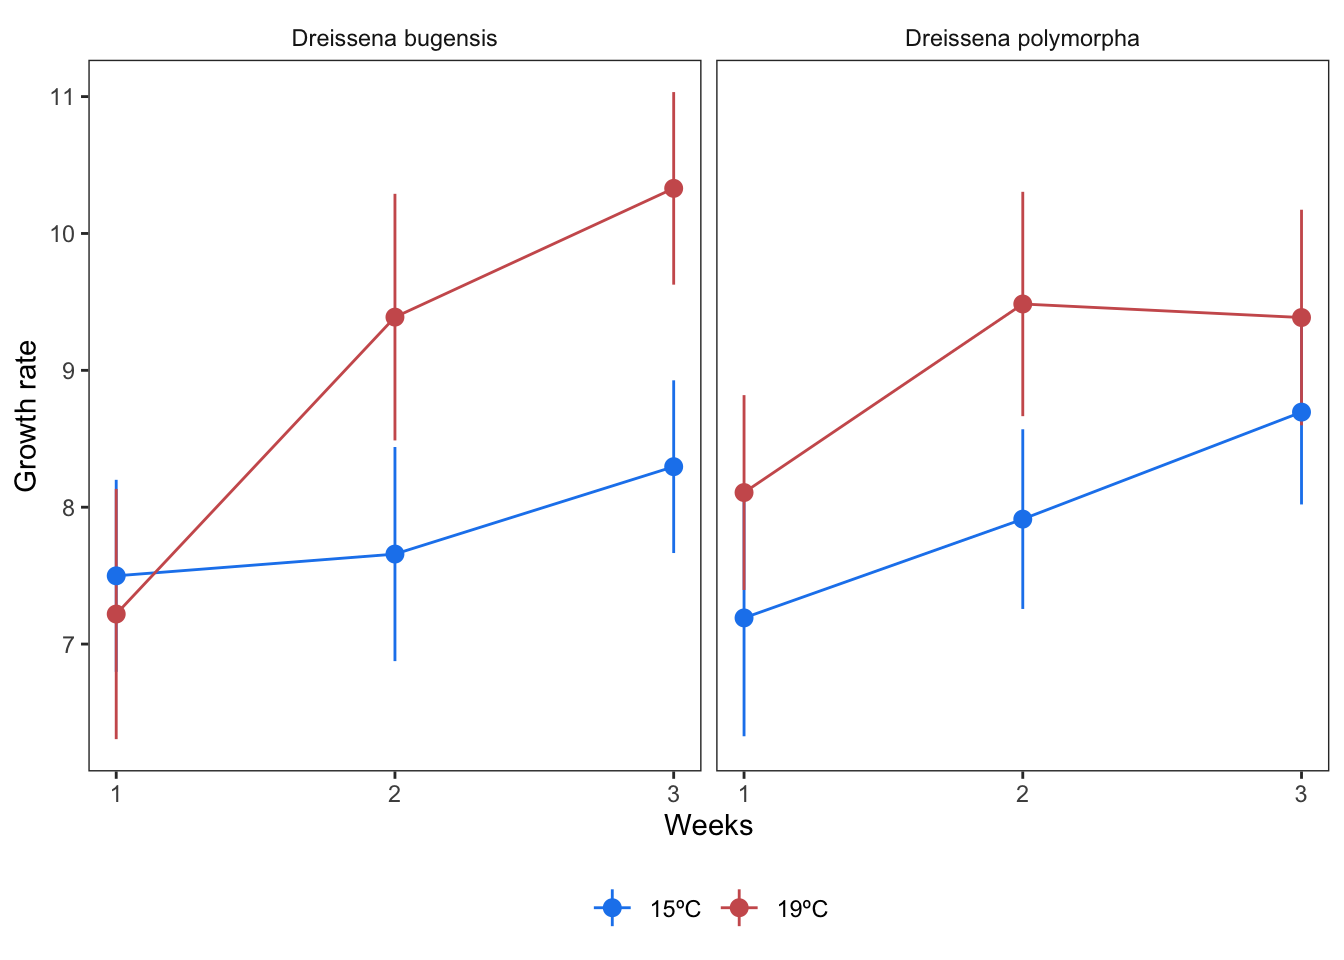
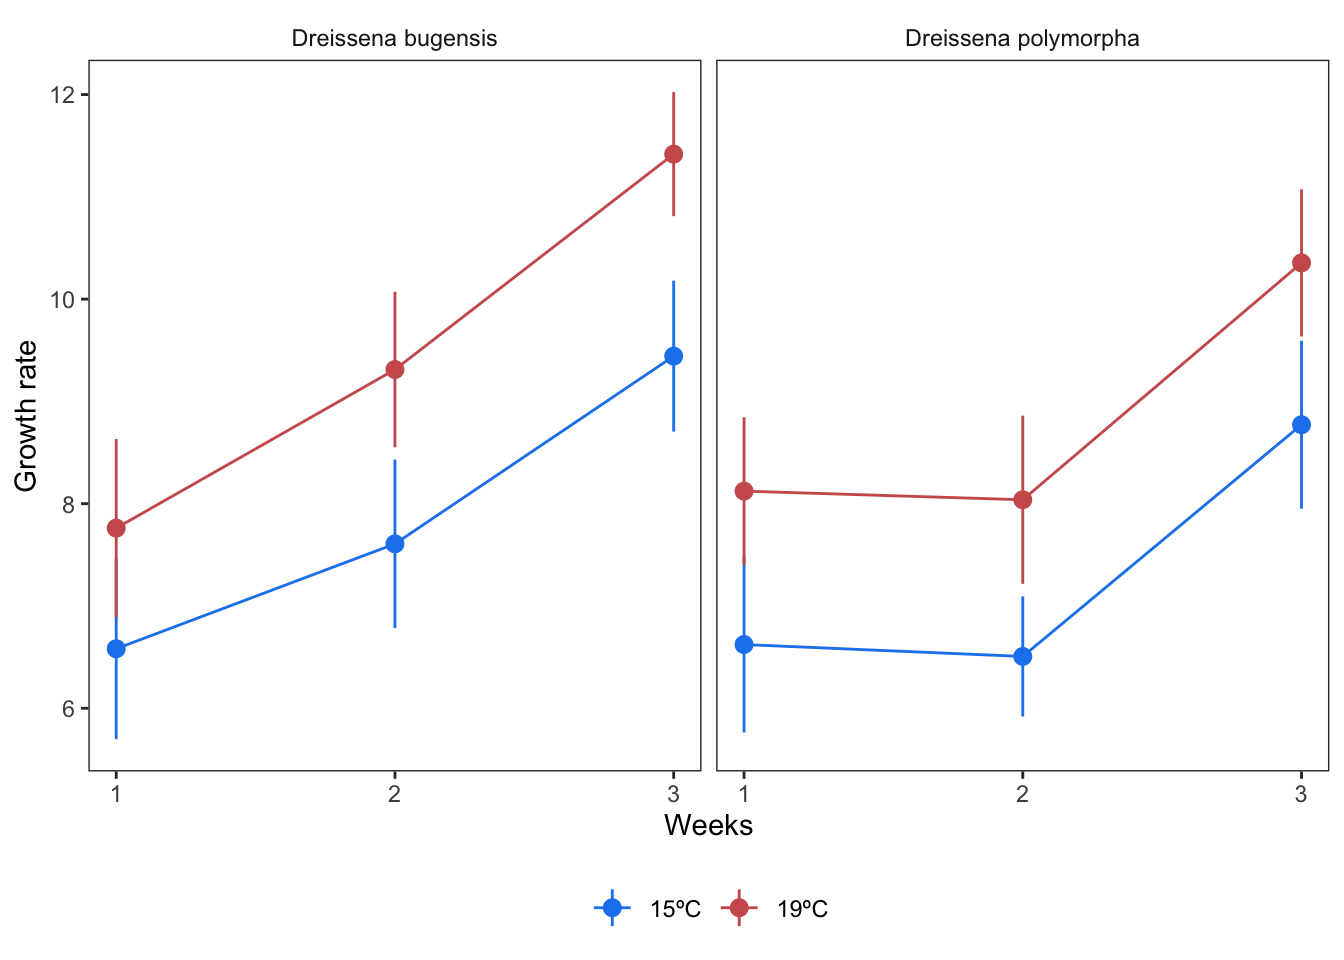
pushed

diff --git a/docs/3.1-universal-challenges.html b/docs/3.1-universal-challenges.html
@@ -4,7 +4,7 @@
 <meta charset="utf-8">
 <meta name="generator" content="quarto-1.9.38">
 <meta name="viewport" content="width=device-width, initial-scale=1.0, user-scalable=yes">
-<meta name="dcterms.date" content="2026-08-10">
+<meta name="dcterms.date" content="2026-08-11">
 <title>Universal extraction challenges – A user’s guide to effect sizes</title>
 <style>
 /* Default styles provided by pandoc.
@@ -334,6 +334,7 @@ window.Quarto = {
   </ul>
 </li>
   <li><a href="#sec-database-design" id="toc-sec-database-design" class="nav-link" data-scroll-target="#sec-database-design">Database design</a></li>
+  <li><a href="#sec-other-resources" id="toc-sec-other-resources" class="nav-link" data-scroll-target="#sec-other-resources">Other resources</a></li>
   </ul></nav>
     </div>
 <!-- main -->
@@ -349,7 +350,7 @@ window.Quarto = {
     <div>
     <div class="quarto-title-meta-heading">Published</div>
     <div class="quarto-title-meta-contents">
-      <p class="date">August 10, 2026</p>
+      <p class="date">August 11, 2026</p>
     </div>
   </div>
   
@@ -478,11 +479,11 @@ window.Quarto = {
 <td style="text-align: right;">1</td>
 <td style="text-align: left;">15ºC</td>
 <td style="text-align: left;">19ºC</td>
-<td style="text-align: right;">7.498645</td>
-<td style="text-align: right;">0.7014435</td>
+<td style="text-align: right;">6.582016</td>
+<td style="text-align: right;">0.8838229</td>
 <td style="text-align: right;">15</td>
-<td style="text-align: right;">7.219469</td>
-<td style="text-align: right;">0.9140485</td>
+<td style="text-align: right;">7.761124</td>
+<td style="text-align: right;">0.8709474</td>
 <td style="text-align: right;">15</td>
 </tr>
 <tr class="even">
@@ -493,11 +494,11 @@ window.Quarto = {
 <td style="text-align: right;">2</td>
 <td style="text-align: left;">15ºC</td>
 <td style="text-align: left;">19ºC</td>
-<td style="text-align: right;">7.657649</td>
-<td style="text-align: right;">0.7821465</td>
+<td style="text-align: right;">7.607355</td>
+<td style="text-align: right;">0.8241189</td>
 <td style="text-align: right;">15</td>
-<td style="text-align: right;">9.388838</td>
-<td style="text-align: right;">0.9008522</td>
+<td style="text-align: right;">9.311742</td>
+<td style="text-align: right;">0.7600977</td>
 <td style="text-align: right;">15</td>
 </tr>
 <tr class="odd">
@@ -508,11 +509,11 @@ window.Quarto = {
 <td style="text-align: right;">3</td>
 <td style="text-align: left;">15ºC</td>
 <td style="text-align: left;">19ºC</td>
-<td style="text-align: right;">8.296123</td>
-<td style="text-align: right;">0.6309276</td>
+<td style="text-align: right;">9.442896</td>
+<td style="text-align: right;">0.7380746</td>
 <td style="text-align: right;">15</td>
-<td style="text-align: right;">10.329545</td>
-<td style="text-align: right;">0.7034634</td>
+<td style="text-align: right;">11.417590</td>
+<td style="text-align: right;">0.6065898</td>
 <td style="text-align: right;">15</td>
 </tr>
 <tr class="even">
@@ -523,11 +524,11 @@ window.Quarto = {
 <td style="text-align: right;">1</td>
 <td style="text-align: left;">15ºC</td>
 <td style="text-align: left;">19ºC</td>
-<td style="text-align: right;">7.191192</td>
-<td style="text-align: right;">0.8647170</td>
+<td style="text-align: right;">6.623310</td>
+<td style="text-align: right;">0.8595838</td>
 <td style="text-align: right;">15</td>
-<td style="text-align: right;">8.107099</td>
-<td style="text-align: right;">0.7117211</td>
+<td style="text-align: right;">8.123031</td>
+<td style="text-align: right;">0.7223441</td>
 <td style="text-align: right;">15</td>
 </tr>
 <tr class="odd">
@@ -538,11 +539,11 @@ window.Quarto = {
 <td style="text-align: right;">2</td>
 <td style="text-align: left;">15ºC</td>
 <td style="text-align: left;">19ºC</td>
-<td style="text-align: right;">7.913030</td>
-<td style="text-align: right;">0.6563464</td>
+<td style="text-align: right;">6.506603</td>
+<td style="text-align: right;">0.5867638</td>
 <td style="text-align: right;">15</td>
-<td style="text-align: right;">9.484750</td>
-<td style="text-align: right;">0.8195804</td>
+<td style="text-align: right;">8.038488</td>
+<td style="text-align: right;">0.8217569</td>
 <td style="text-align: right;">15</td>
 </tr>
 <tr class="even">
@@ -553,11 +554,11 @@ window.Quarto = {
 <td style="text-align: right;">3</td>
 <td style="text-align: left;">15ºC</td>
 <td style="text-align: left;">19ºC</td>
-<td style="text-align: right;">8.694858</td>
-<td style="text-align: right;">0.6747091</td>
+<td style="text-align: right;">8.772214</td>
+<td style="text-align: right;">0.8212199</td>
 <td style="text-align: right;">15</td>
-<td style="text-align: right;">9.385784</td>
-<td style="text-align: right;">0.7876869</td>
+<td style="text-align: right;">10.354042</td>
+<td style="text-align: right;">0.7195124</td>
 <td style="text-align: right;">15</td>
 </tr>
 </tbody>
@@ -722,11 +723,11 @@ window.Quarto = {
 <td style="text-align: right;">1</td>
 <td style="text-align: left;">15ºC</td>
 <td style="text-align: left;">19ºC</td>
-<td style="text-align: right;">7.498645</td>
-<td style="text-align: right;">0.7014435</td>
+<td style="text-align: right;">6.582016</td>
+<td style="text-align: right;">0.8838229</td>
 <td style="text-align: right;">15</td>
-<td style="text-align: right;">7.219469</td>
-<td style="text-align: right;">0.9140485</td>
+<td style="text-align: right;">7.761124</td>
+<td style="text-align: right;">0.8709474</td>
 <td style="text-align: right;">15</td>
 <td style="text-align: left;">unique_control1</td>
 </tr>
@@ -738,11 +739,11 @@ window.Quarto = {
 <td style="text-align: right;">2</td>
 <td style="text-align: left;">15ºC</td>
 <td style="text-align: left;">19ºC</td>
-<td style="text-align: right;">7.657649</td>
-<td style="text-align: right;">0.7821465</td>
+<td style="text-align: right;">7.607355</td>
+<td style="text-align: right;">0.8241189</td>
 <td style="text-align: right;">15</td>
-<td style="text-align: right;">9.388838</td>
-<td style="text-align: right;">0.9008522</td>
+<td style="text-align: right;">9.311742</td>
+<td style="text-align: right;">0.7600977</td>
 <td style="text-align: right;">15</td>
 <td style="text-align: left;">unique_control2</td>
 </tr>
@@ -754,11 +755,11 @@ window.Quarto = {
 <td style="text-align: right;">3</td>
 <td style="text-align: left;">15ºC</td>
 <td style="text-align: left;">19ºC</td>
-<td style="text-align: right;">8.296123</td>
-<td style="text-align: right;">0.6309276</td>
+<td style="text-align: right;">9.442896</td>
+<td style="text-align: right;">0.7380746</td>
 <td style="text-align: right;">15</td>
-<td style="text-align: right;">10.329545</td>
-<td style="text-align: right;">0.7034634</td>
+<td style="text-align: right;">11.417590</td>
+<td style="text-align: right;">0.6065898</td>
 <td style="text-align: right;">15</td>
 <td style="text-align: left;">unique_control3</td>
 </tr>
@@ -770,11 +771,11 @@ window.Quarto = {
 <td style="text-align: right;">1</td>
 <td style="text-align: left;">15ºC</td>
 <td style="text-align: left;">19ºC</td>
-<td style="text-align: right;">7.191192</td>
-<td style="text-align: right;">0.8647170</td>
+<td style="text-align: right;">6.623310</td>
+<td style="text-align: right;">0.8595838</td>
 <td style="text-align: right;">15</td>
-<td style="text-align: right;">8.107099</td>
-<td style="text-align: right;">0.7117211</td>
+<td style="text-align: right;">8.123031</td>
+<td style="text-align: right;">0.7223441</td>
 <td style="text-align: right;">15</td>
 <td style="text-align: left;">unique_control4</td>
 </tr>
@@ -786,11 +787,11 @@ window.Quarto = {
 <td style="text-align: right;">2</td>
 <td style="text-align: left;">15ºC</td>
 <td style="text-align: left;">19ºC</td>
-<td style="text-align: right;">7.913030</td>
-<td style="text-align: right;">0.6563464</td>
+<td style="text-align: right;">6.506603</td>
+<td style="text-align: right;">0.5867638</td>
 <td style="text-align: right;">15</td>
-<td style="text-align: right;">9.484750</td>
-<td style="text-align: right;">0.8195804</td>
+<td style="text-align: right;">8.038488</td>
+<td style="text-align: right;">0.8217569</td>
 <td style="text-align: right;">15</td>
 <td style="text-align: left;">unique_control5</td>
 </tr>
@@ -802,11 +803,11 @@ window.Quarto = {
 <td style="text-align: right;">3</td>
 <td style="text-align: left;">15ºC</td>
 <td style="text-align: left;">19ºC</td>
-<td style="text-align: right;">8.694858</td>
-<td style="text-align: right;">0.6747091</td>
+<td style="text-align: right;">8.772214</td>
+<td style="text-align: right;">0.8212199</td>
 <td style="text-align: right;">15</td>
-<td style="text-align: right;">9.385784</td>
-<td style="text-align: right;">0.7876869</td>
+<td style="text-align: right;">10.354042</td>
+<td style="text-align: right;">0.7195124</td>
 <td style="text-align: right;">15</td>
 <td style="text-align: left;">unique_control6</td>
 </tr>
@@ -872,6 +873,17 @@ window.Quarto = {
 </section></section></section><section id="sec-database-design" class="level1"><h1>Database design</h1>
 <p>As you can see, one of the key considerations in performing a robust and accurate meta-analysis is good database design. Database design depends on your question, whether you plan to extract data for multiple effect size types (e.g., both discrete groups and continuous outcomes), what your rules for repeated measures and shared controls are, and so on.</p>
 <p>We recommend that you do a pilot extraction, and analysis, of ~10% of your screened articles before extracting all of your articles. This pilot extraction will give your database a stress test and will help ensure that you are correctly digitizing complex non-independence structures and the covariates that you might be interested in.</p>
+</section><section id="sec-other-resources" class="level1"><h1>Other resources</h1>
+<p>We have done our best to describe universal considerations in extracting effect sizes, especially in ecology and evolution. However, given the diversity of study designs utilized, these challenges could be articulated over an entire book.</p>
+<p>We recommend the following tutorials and articles that help disentangle universal challenges related to sample size and non-independence:</p>
+<ul>
+<li><p><a href="https://www.cochrane.org/authors/handbooks-and-manuals/handbook/current"><span class="citation" data-cites="cochrane-handbook-1">Higgins et al. (<span>2024</span>)</span></a></p></li>
+<li><p>XXXXX</p></li>
+<li><p>XXXXX</p></li>
+<li><p>XXXX</p></li>
+<li><p>XXXX</p></li>
+<li><p>XXXX</p></li>
+</ul>
 
 
 <!-- -->
@@ -880,6 +892,9 @@ window.Quarto = {
 </section><div id="quarto-appendix" class="default"><section class="quarto-appendix-contents" role="doc-bibliography" id="quarto-bibliography"><h2 class="anchored quarto-appendix-heading">References</h2><div id="refs" class="references csl-bib-body hanging-indent" role="list">
 <div id="ref-Ferraro2025-qf" class="csl-entry" role="listitem">
 Ferraro, Kristy M, and Janey R Lienau. 2025. <span>“Of All Shapes and Sizes: A Theoretical Framework for Animal‐mediated Terrestrial Heterogeneity Across Scales.”</span> <em>Ecography (Cop.)</em> 2025 (9): Not Available.
+</div>
+<div id="ref-cochrane-handbook-1" class="csl-entry" role="listitem">
+Higgins, JPT, J Thomas, J Chandler, M Cumpston, T Li, and MJ Page. 2024. <span>“Cochrane Handbook for Systematic Reviews of Interventions.”</span> <em>Cochrane</em>, www.cochrane.org/handbook.
 </div>
 <div id="ref-Lundgren2024-ly" class="csl-entry" role="listitem">
 <span class="nocase">Lundgren, E J, J Bergman, J Trepel, E le Roux, et al.</span> 2024. <span>“Functional Traits—Not Nativeness—Shape the Effects of Large Mammalian Herbivores on Plant Communities.”</span> <em>Science</em>.
@@ -1737,6 +1752,24 @@ Wiens, J A. 1989. <span>“Spatial Scaling in Ecology.”</span> <em>Funct. Ecol
 <span id="cb2-390"><a href="#cb2-390" aria-hidden="true" tabindex="-1"></a>As you can see, one of the key considerations in performing a robust and accurate meta-analysis is good database design. Database design depends on your question, whether you plan to extract data for multiple effect size types (e.g., both discrete groups and continuous outcomes), what your rules for repeated measures and shared controls are, and so on.</span>
 <span id="cb2-391"><a href="#cb2-391" aria-hidden="true" tabindex="-1"></a></span>
 <span id="cb2-392"><a href="#cb2-392" aria-hidden="true" tabindex="-1"></a>We recommend that you do a pilot extraction, and analysis, of \~10% of your screened articles before extracting all of your articles. This pilot extraction will give your database a stress test and will help ensure that you are correctly digitizing complex non-independence structures and the covariates that you might be interested in.</span>
+<span id="cb2-393"><a href="#cb2-393" aria-hidden="true" tabindex="-1"></a></span>
+<span id="cb2-394"><a href="#cb2-394" aria-hidden="true" tabindex="-1"></a><span class="fu"># Other resources {#sec-other-resources}</span></span>
+<span id="cb2-395"><a href="#cb2-395" aria-hidden="true" tabindex="-1"></a></span>
+<span id="cb2-396"><a href="#cb2-396" aria-hidden="true" tabindex="-1"></a>We have done our best to describe universal considerations in extracting effect sizes, especially in ecology and evolution. However, given the diversity of study designs utilized, these challenges could be articulated over an entire book.</span>
+<span id="cb2-397"><a href="#cb2-397" aria-hidden="true" tabindex="-1"></a></span>
+<span id="cb2-398"><a href="#cb2-398" aria-hidden="true" tabindex="-1"></a>We recommend the following tutorials and articles that help disentangle universal challenges related to sample size and non-independence:</span>
+<span id="cb2-399"><a href="#cb2-399" aria-hidden="true" tabindex="-1"></a></span>
+<span id="cb2-400"><a href="#cb2-400" aria-hidden="true" tabindex="-1"></a><span class="ss">- </span><span class="co">[</span><span class="ot">@cochrane-handbook-1</span><span class="co">](https://www.cochrane.org/authors/handbooks-and-manuals/handbook/current)</span></span>
+<span id="cb2-401"><a href="#cb2-401" aria-hidden="true" tabindex="-1"></a></span>
+<span id="cb2-402"><a href="#cb2-402" aria-hidden="true" tabindex="-1"></a><span class="ss">- </span>XXXXX</span>
+<span id="cb2-403"><a href="#cb2-403" aria-hidden="true" tabindex="-1"></a></span>
+<span id="cb2-404"><a href="#cb2-404" aria-hidden="true" tabindex="-1"></a><span class="ss">- </span>XXXXX</span>
+<span id="cb2-405"><a href="#cb2-405" aria-hidden="true" tabindex="-1"></a></span>
+<span id="cb2-406"><a href="#cb2-406" aria-hidden="true" tabindex="-1"></a><span class="ss">- </span>XXXX</span>
+<span id="cb2-407"><a href="#cb2-407" aria-hidden="true" tabindex="-1"></a></span>
+<span id="cb2-408"><a href="#cb2-408" aria-hidden="true" tabindex="-1"></a><span class="ss">- </span>XXXX</span>
+<span id="cb2-409"><a href="#cb2-409" aria-hidden="true" tabindex="-1"></a></span>
+<span id="cb2-410"><a href="#cb2-410" aria-hidden="true" tabindex="-1"></a><span class="ss">- </span>XXXX</span>
 </code></pre></div><button title="Copy to Clipboard" class="code-copy-button" data-in-quarto-modal=""><i class="bi"></i></button></div>
 </div></div></div></div></div>
 </div> <!-- /content -->

diff --git a/docs/to_do_list.html b/docs/to_do_list.html
@@ -6,7 +6,7 @@
 
 <meta name="viewport" content="width=device-width, initial-scale=1.0, user-scalable=yes">
 
-<meta name="dcterms.date" content="2026-08-10">
+<meta name="dcterms.date" content="2026-08-11">
 
 <title>to do list – A user’s guide to effect sizes</title>
 <style>
@@ -311,7 +311,7 @@ pre > code.sourceCode > span > a:first-child::before { text-decoration: underlin
     <div>
     <div class="quarto-title-meta-heading">Published</div>
     <div class="quarto-title-meta-contents">
-      <p class="date">August 10, 2026</p>
+      <p class="date">August 11, 2026</p>
     </div>
   </div>
   
@@ -323,6 +323,7 @@ pre > code.sourceCode > span > a:first-child::before { text-decoration: underlin
 </header>
 
 
+<p>See <a href="https://docs.google.com/document/d/1MpnNRM675XkHa1KjKfgWuf59XGyf0sV0wO-DqSwyfuM/edit?usp=sharing">here</a> for a living doc for notes/comments/decisions</p>
 <p>Tasks</p>
 <ul>
 <li>Santi + Iwo + Sage?:
@@ -883,19 +884,19 @@ pre > code.sourceCode > span > a:first-child::before { text-decoration: underlin
 <span id="cb1-43"><a href="#cb1-43" aria-hidden="true" tabindex="-1"></a><span class="an">bibliography:</span><span class="co"> references.bib</span></span>
 <span id="cb1-44"><a href="#cb1-44" aria-hidden="true" tabindex="-1"></a><span class="co">---</span></span>
 <span id="cb1-45"><a href="#cb1-45" aria-hidden="true" tabindex="-1"></a></span>
-<span id="cb1-46"><a href="#cb1-46" aria-hidden="true" tabindex="-1"></a></span>
-<span id="cb1-47"><a href="#cb1-47" aria-hidden="true" tabindex="-1"></a>Tasks</span>
-<span id="cb1-48"><a href="#cb1-48" aria-hidden="true" tabindex="-1"></a></span>
-<span id="cb1-49"><a href="#cb1-49" aria-hidden="true" tabindex="-1"></a><span class="ss">- </span>Santi + Iwo + Sage?:</span>
-<span id="cb1-50"><a href="#cb1-50" aria-hidden="true" tabindex="-1"></a><span class="ss">    - </span>SMD assumptions and extraction challenges</span>
-<span id="cb1-51"><a href="#cb1-51" aria-hidden="true" tabindex="-1"></a>    </span>
-<span id="cb1-52"><a href="#cb1-52" aria-hidden="true" tabindex="-1"></a><span class="ss">- </span>Santi:</span>
-<span id="cb1-53"><a href="#cb1-53" aria-hidden="true" tabindex="-1"></a><span class="ss">    - </span>Add lnM to <span class="in">`5-less-common-effect-sizes.qmd`</span></span>
-<span id="cb1-54"><a href="#cb1-54" aria-hidden="true" tabindex="-1"></a></span>
-<span id="cb1-55"><a href="#cb1-55" aria-hidden="true" tabindex="-1"></a><span class="ss">- </span>Kyle + Josh</span>
-<span id="cb1-56"><a href="#cb1-56" aria-hidden="true" tabindex="-1"></a><span class="ss">    - </span>lnOR assumptions and extraction challenges</span>
-<span id="cb1-57"><a href="#cb1-57" aria-hidden="true" tabindex="-1"></a>    </span>
-<span id="cb1-58"><a href="#cb1-58" aria-hidden="true" tabindex="-1"></a></span>
+<span id="cb1-46"><a href="#cb1-46" aria-hidden="true" tabindex="-1"></a>See <span class="co">[</span><span class="ot">here</span><span class="co">](https://docs.google.com/document/d/1MpnNRM675XkHa1KjKfgWuf59XGyf0sV0wO-DqSwyfuM/edit?usp=sharing)</span> for a living doc for notes/comments/decisions</span>
+<span id="cb1-47"><a href="#cb1-47" aria-hidden="true" tabindex="-1"></a></span>
+<span id="cb1-48"><a href="#cb1-48" aria-hidden="true" tabindex="-1"></a>Tasks</span>
+<span id="cb1-49"><a href="#cb1-49" aria-hidden="true" tabindex="-1"></a></span>
+<span id="cb1-50"><a href="#cb1-50" aria-hidden="true" tabindex="-1"></a><span class="ss">- </span>Santi + Iwo + Sage?:</span>
+<span id="cb1-51"><a href="#cb1-51" aria-hidden="true" tabindex="-1"></a><span class="ss">    - </span>SMD assumptions and extraction challenges</span>
+<span id="cb1-52"><a href="#cb1-52" aria-hidden="true" tabindex="-1"></a>    </span>
+<span id="cb1-53"><a href="#cb1-53" aria-hidden="true" tabindex="-1"></a><span class="ss">- </span>Santi:</span>
+<span id="cb1-54"><a href="#cb1-54" aria-hidden="true" tabindex="-1"></a><span class="ss">    - </span>Add lnM to <span class="in">`5-less-common-effect-sizes.qmd`</span></span>
+<span id="cb1-55"><a href="#cb1-55" aria-hidden="true" tabindex="-1"></a></span>
+<span id="cb1-56"><a href="#cb1-56" aria-hidden="true" tabindex="-1"></a><span class="ss">- </span>Kyle + Josh</span>
+<span id="cb1-57"><a href="#cb1-57" aria-hidden="true" tabindex="-1"></a><span class="ss">    - </span>lnOR assumptions and extraction challenges</span>
+<span id="cb1-58"><a href="#cb1-58" aria-hidden="true" tabindex="-1"></a>    </span>
 <span id="cb1-59"><a href="#cb1-59" aria-hidden="true" tabindex="-1"></a><span class="ss">- </span>Ed + Christine:</span>
 <span id="cb1-60"><a href="#cb1-60" aria-hidden="true" tabindex="-1"></a><span class="ss">    - </span>Zr assumptions and challenges</span>
 <span id="cb1-61"><a href="#cb1-61" aria-hidden="true" tabindex="-1"></a>    </span>
